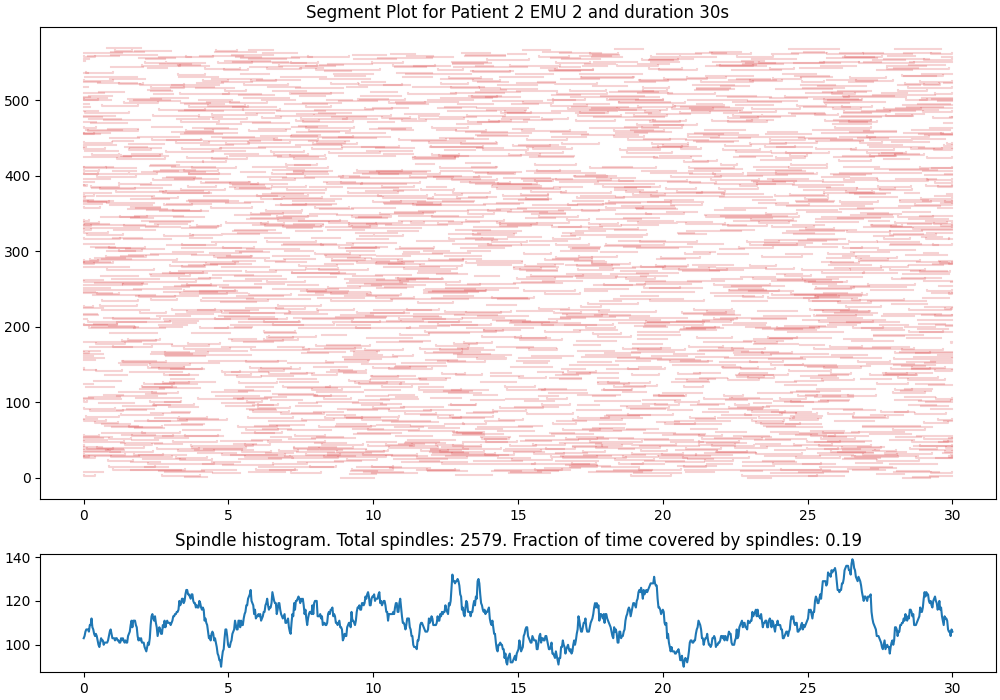
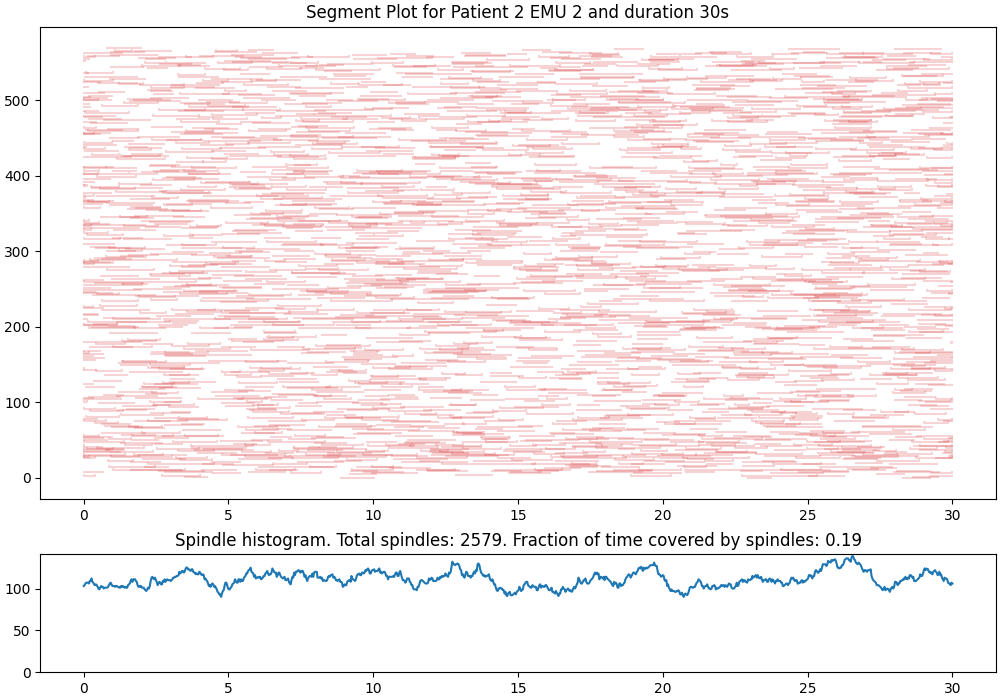
Fixed Linux bug with loading floats

diff --git a/dataloader.py b/dataloader.py
@@ -291,6 +291,8 @@ class PatientHandle:
         hist_ax.plot(np.linspace(0, self._duration, spindle_histogram_granularity), spindle_histogram)
         hist_ax.set(title=f"Spindle histogram. Total spindles: {len(self._own_dataframe)}. " \
             f"Fraction of time covered by spindles: {time_covered_by_spindles / (len(self._segments) * self._duration):.2f}")
+        # ensure y limit starts with zero
+        hist_ax.set_ylim(bottom=0)
                     
         # Save the plot
         self.__savefig(f"segment_plot.png")
@@ -300,31 +302,37 @@ class PatientHandle:
     
     def __getitem__(self, idx):
         start_time, end_time = self._segments[idx]._start_time, self._segments[idx]._end_time
-        
-        # extract channel data
-        data = self._reader.get_data(self._reader.channels, start_time * 1e6, end_time * 1e6)
-        for channel in data:
-            channel = np.nan_to_num(channel, nan=0.0)
-        
+
         # find most common sampling rate (fsamp)
         sampling_rates = [self._reader.get_property('fsamp', channel) for channel in self._reader.channels]  
         most_common_sampling_rate = max(set(sampling_rates), key=sampling_rates.count)
         target_length = int(self._duration * most_common_sampling_rate)
         
-        # resample all channels to the most common sampling rate using numpy.interp
-        for i, channel in enumerate(self._reader.channels):
-            if len(data[i]) != target_length:
-                data[i] = np.interp(np.linspace(0, 1, target_length), np.linspace(0, 1, len(data[i])), data[i])
-                
-        # compose the data into a numpy matrix
-        data = np.stack(data, axis=1)
+        # extract channel data
+        all_data = []
+        for channel in self._reader.channels:
+            data = self._reader.get_data(channel, int(start_time * 1e6), int(end_time * 1e6))
+            data = np.nan_to_num(data, nan=0.0)
+            if data != target_length:
+                data = np.interp(np.linspace(0, 1, target_length), np.linspace(0, 1, len(data)), data)
+
+            all_data.append(data)
+        data = np.stack(all_data, axis=1)
         
+        # fetch spindles
         spindles = self._own_dataframe.iloc[self._segments[idx].spindles].copy()
         # trim spindles to fit the segment
         spindles['Start'] = spindles['Start'].apply(lambda x: max(x, start_time))
         spindles['End'] = spindles['End'].apply(lambda x: min(x, end_time))
         
-        return {'data': data, 'spindles': spindles, 'start_time': start_time, 'end_time': end_time}
+        return {
+            'data': data,
+            'spindles': spindles,
+            'start_time': start_time,
+            'end_time': end_time,
+            'patient_id': self._patient_id, 
+            'emu_id': self._emu_id
+        }
 
 
 class SpindleDataset(Dataset):
@@ -414,11 +422,4 @@ if __name__ == '__main__':
         .set_duration(30)
     
     for i, elem in enumerate(dataset):
-        print(f"Element {i} has {len(elem['spindles'])} spindles")
-        print(f"Element {i} has {elem['data'].shape[1]} channels")
-        print(f"Element {i} has {elem['data'].shape[0]} samples")
-        print(f"Element {i} has start time {elem['start_time']} and end time {elem['end_time']}")
-        print("=" * 80)
-        
-        if i == 10:
-            break
+        print(f"# spindles = {len(elem['spindles'])}, data_shape = {elem['data'].shape}")

diff --git a/main.py b/main.py
@@ -1,5 +1,3 @@
-from sleepylyze.nrem import NREM
-
 import numpy as np
 from tqdm import tqdm
 from datetime import datetime
@@ -7,23 +5,30 @@ from mef_tools.io import MefWriter, MefReader
 
 import string
 import itertools
+import time
 
 reader = MefReader('data/sub-MH1_ses-EMU1_merged.mefd', password2='imagination')
-signals = []
 
-properties = reader.properties
-print(properties)
+start = 1576558776722156
+end = 1576558806722156
 
+a = time.time()
+
+all_data = []
 for channel in reader.channels:
-    # print(channel, reader.get_property('fsamp', channel))
-    
-    # x = reader.get_data(['e9-e10','Iz'])
-    for property in properties:
-        print(f"{property}: {reader.get_property(property, channel)}")
-    start_time = reader.get_property('start_time', channel)
-    end_time = reader.get_property('end_time', channel)
-    x = reader.get_data(channel, start_time, start_time+10*1e6)
-    print(f"Length of 10 second sample: {len(x)}")
-    print("=" * 80)
+    data = reader.get_data(channel, start, end)
+    print(data.shape)
+    all_data.append(data)
+# all_data = np.stack(all_data, axis=1)
+# print(all_data.shape)
 
-    
+b = time.time()
+
+all_data = reader.get_data(reader.channels, start, end)
+for data in all_data:
+    print(data.shape)
+
+c = time.time()
+
+print(b-a)
+print(c-b)
